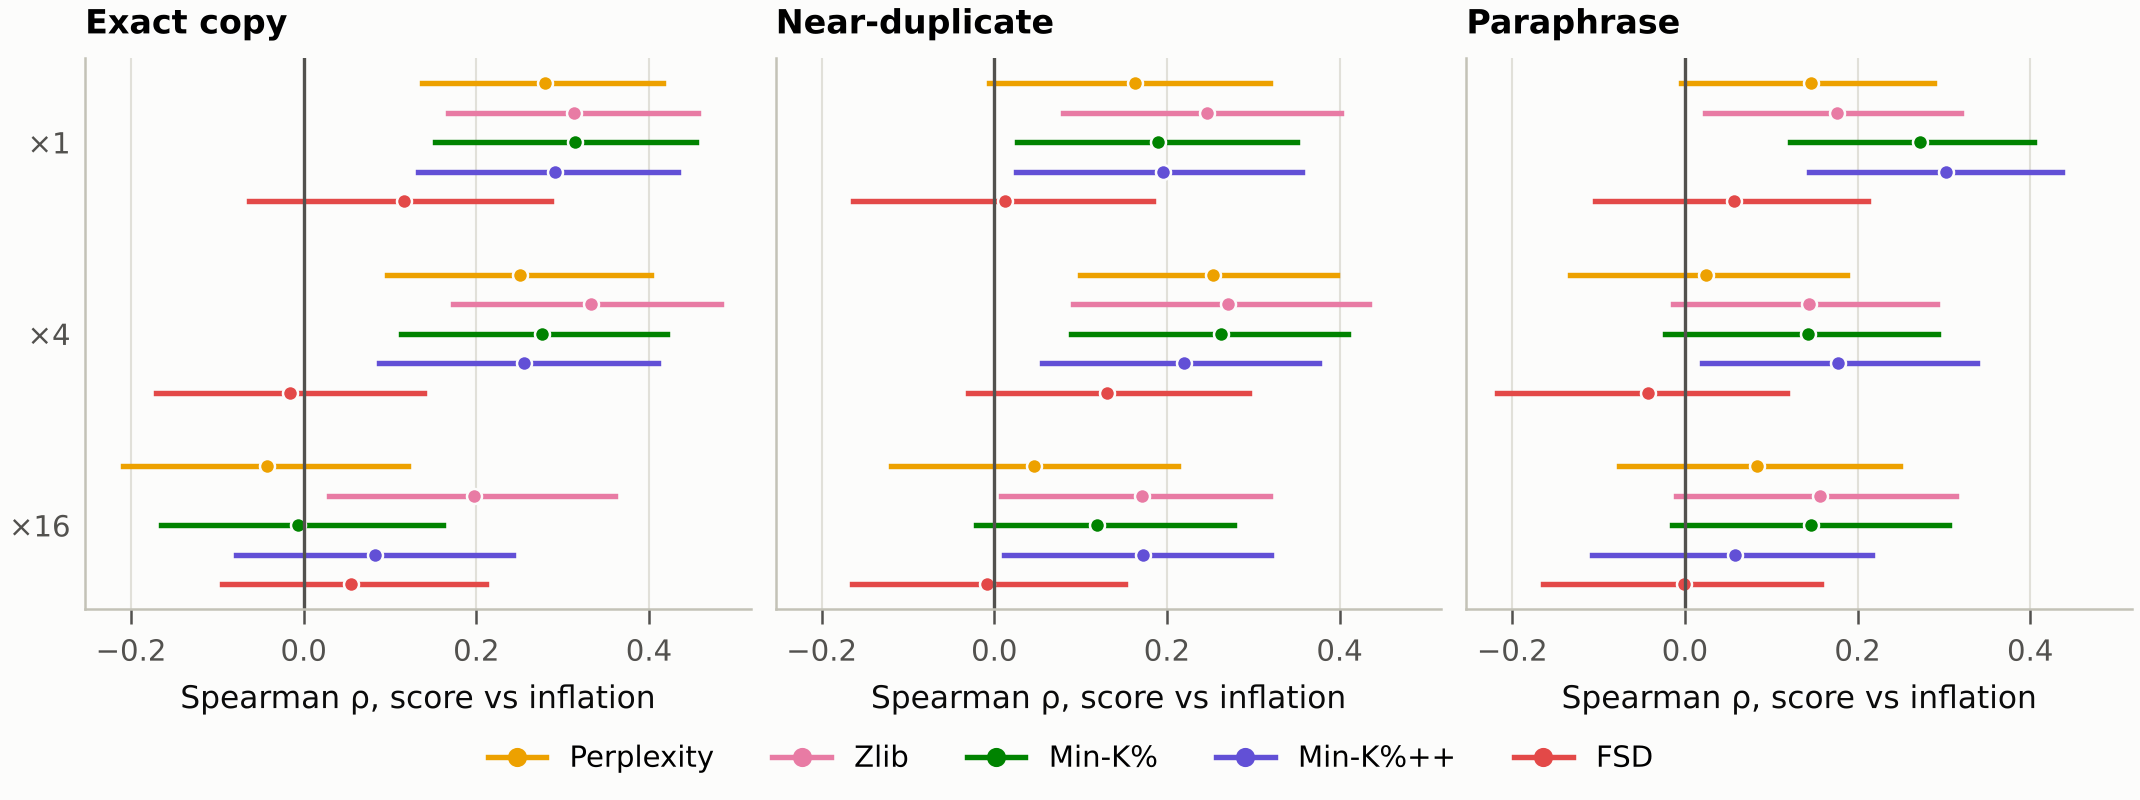
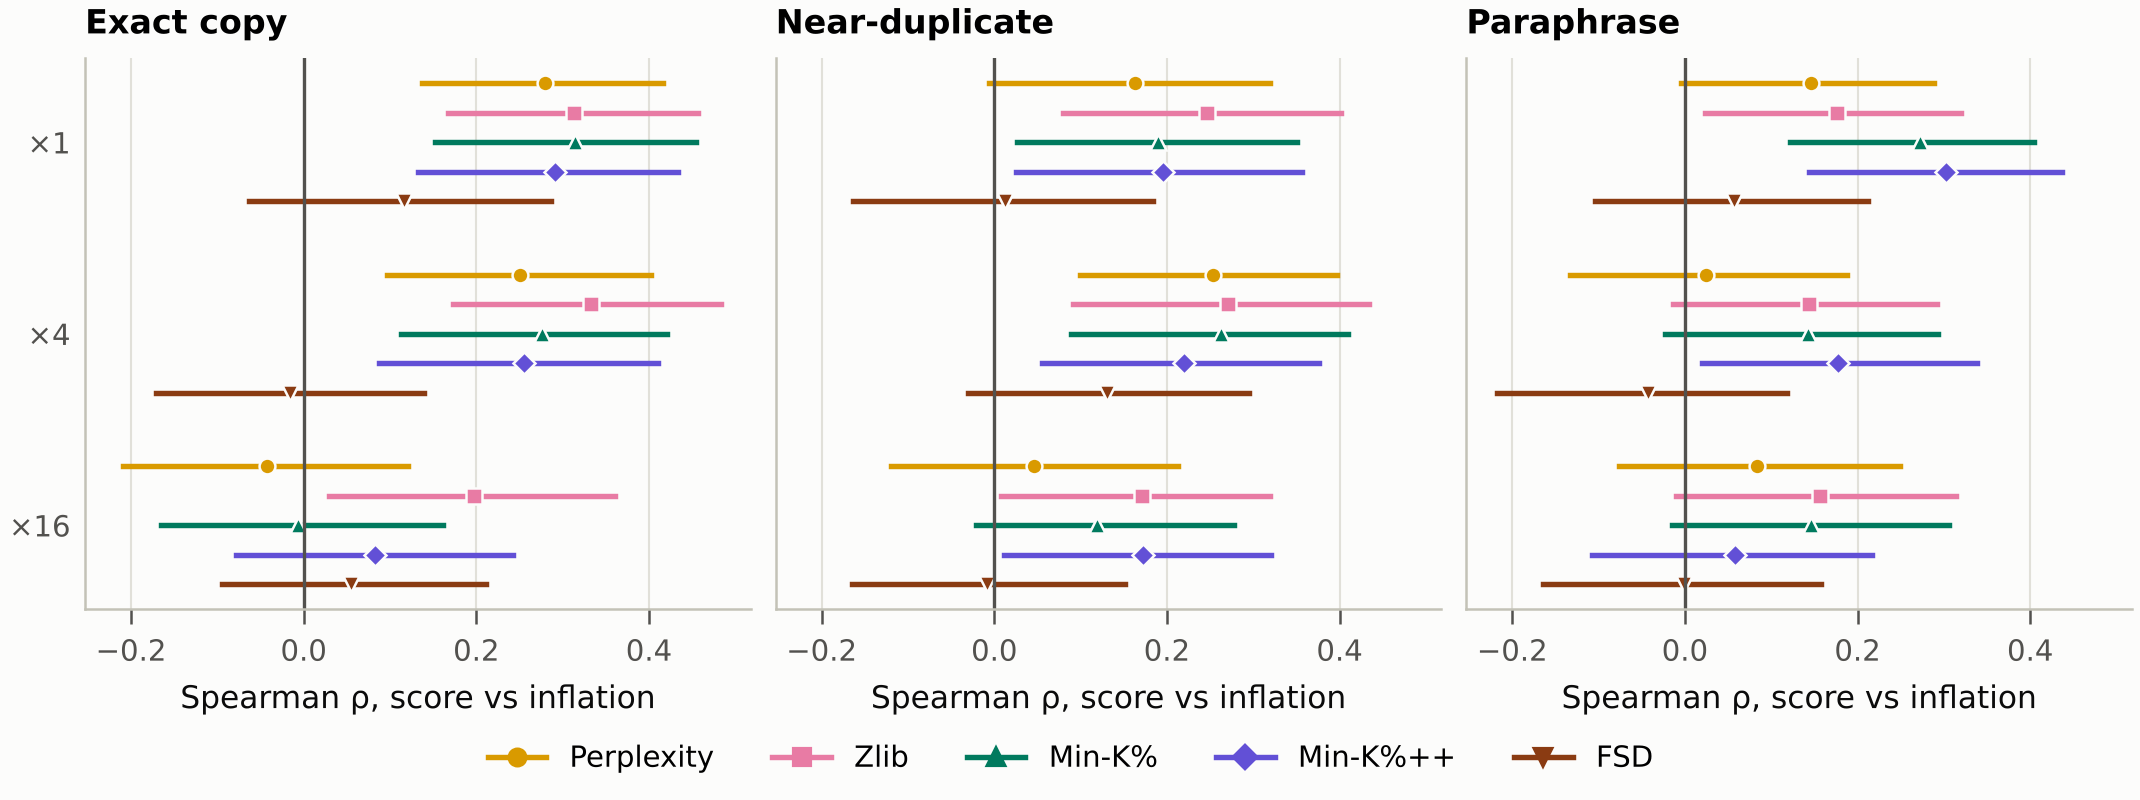
Figures: colour-blind-safe detector palette with redundant marker, line-style and hatch encoding

diff --git a/dcl/figures.py b/dcl/figures.py
@@ -28,7 +28,12 @@ CAT = ["#2a78d6", "#eb6834", "#1baf7a", "#eda100", "#e87ba4", "#008300", "#6250d
 OVERLAP_COL = dict(zip(C.OVERLAPS, CAT[:3]))
 OVERLAP_LAB = {"exact": "Exact copy", "near_dup": "Near-duplicate", "paraphrase": "Paraphrase"}
 OVERLAP_MARK = {"exact": "o", "near_dup": "s", "paraphrase": "^"}
-DET_COL = dict(zip(DETECTORS.values(), CAT[3:8]))
+# Detector palette validated for colour-vision deficiency (all pairs, light surface); every detector also
+# has its own marker and line style, so identity never depends on colour alone.
+DET_COL = dict(zip(DETECTORS.values(), ["#d99a00", "#e87ba4", "#007a5e", "#6250d6", "#8a3b12"]))
+DET_MARK = dict(zip(DETECTORS.values(), ["o", "s", "^", "D", "v"]))
+DET_LS = dict(zip(DETECTORS.values(), ["-", (0, (4, 1.5)), (0, (1, 1)), (0, (5, 1.5, 1, 1.5)), (0, (2, 1, 2, 3))]))
+OVERLAP_HATCH = {"exact": "", "near_dup": "////", "paraphrase": "...."}
 BLUES = LinearSegmentedColormap.from_list("blues", ["#cde2fb", "#86b6ef", "#3987e5", "#1c5cab", "#0d366b"])
 DIVERGE = LinearSegmentedColormap.from_list("div", ["#e34948", "#f0efec", "#2a78d6"])
 REF_GREY, CTX_GREY, LIGHT_GREY = "#a3a29b", "#d4d3cd", "#e9e8e4"
@@ -46,7 +51,7 @@ DOSE_TINT = {1: 0.62, 4: 0.32, 16: 0.0}
 
 plt.rcParams.update({
     "figure.facecolor": SURFACE, "axes.facecolor": SURFACE, "savefig.facecolor": SURFACE,
-    "font.family": "DejaVu Sans", "font.size": 7.5, "axes.titlesize": 8, "axes.titleweight": "bold",
+    "font.family": "DejaVu Sans", "hatch.linewidth": 0.6, "font.size": 7.5, "axes.titlesize": 8, "axes.titleweight": "bold",
     "axes.labelsize": 7.5, "xtick.labelsize": 7, "ytick.labelsize": 7, "legend.fontsize": 7,
     "axes.edgecolor": AXIS, "axes.labelcolor": INK, "xtick.color": INK2, "ytick.color": INK2,
     "axes.spines.top": False, "axes.spines.right": False, "axes.grid": True, "grid.color": GRID,
@@ -160,7 +165,7 @@ def fig_roc_curves(avg, out):
         y = np.r_[np.ones(len(d)), np.zeros(len(clean))]
         for col, lab in DETECTORS.items():
             f, t, _ = roc_curve(y, np.r_[d[col], clean[col]])
-            ax.plot(f, t, color=DET_COL[lab], lw=1.2, label=lab)
+            ax.plot(f, t, color=DET_COL[lab], ls=DET_LS[lab], lw=1.3, label=lab)
         ax.plot([0, 1], [0, 1], color=MUTED, lw=0.8, ls=(0, (3, 2)))
         ax.set_title(f"{OVERLAP_LAB[o]}, ×16", loc="left")
         ax.set_xlabel("False positive rate")
@@ -215,7 +220,7 @@ def fig_forest(agr, out):
                 r = w[(w["group"] == g) & (w["detector"] == dl)].iloc[0]
                 y = k * (len(dets) + 1.5) + j
                 ax.plot([r["rho_lo"], r["rho_hi"]], [y, y], color=DET_COL[dl], lw=1.3)
-                ax.plot(r["rho"], y, "o", color=DET_COL[dl], ms=3.6, mec=SURFACE, mew=0.6)
+                ax.plot(r["rho"], y, DET_MARK[dl], color=DET_COL[dl], ms=3.8, mec=SURFACE, mew=0.6)
         ax.axvline(0, color=INK2, lw=0.8)
         ax.set_yticks([k * (len(dets) + 1.5) + 2 for k in range(3)], [f"×{d}" for d in C.DOSES])
         ax.set_title(OVERLAP_LAB[o], loc="left")
@@ -223,7 +228,7 @@ def fig_forest(agr, out):
         ax.grid(axis="y", visible=False)
         ax.tick_params(axis="y", length=0)
         ax.invert_yaxis()
-    handles = [plt.Line2D([], [], color=DET_COL[d], marker="o", ms=3.6, lw=1.3, label=d) for d in dets]
+    handles = [plt.Line2D([], [], color=DET_COL[d], marker=DET_MARK[d], ms=3.8, lw=1.3, label=d) for d in dets]
     fig.legend(handles=handles, loc="outside lower center", ncol=5)
     return _save(fig, out, "fig06_within_cell_rho")
 
@@ -315,9 +320,10 @@ def fig_ablation(abl, out):
     x = np.arange(len(runs))
     w = 0.26
     for k, o in enumerate(C.OVERLAPS):
-        axes[0].bar(x + (k - 1) * w, a[f"infl_acc_pts_{o}"], w - 0.03, color=OVERLAP_COL[o], label=OVERLAP_LAB[o])
+        axes[0].bar(x + (k - 1) * w, a[f"infl_acc_pts_{o}"], w - 0.03, color=OVERLAP_COL[o], label=OVERLAP_LAB[o],
+                    hatch=OVERLAP_HATCH[o], edgecolor=SURFACE, linewidth=0)
         axes[1].bar(x + (k - 1) * w, a[f"auroc_Min-K%++_{o}_x16"] - 0.5, w - 0.03, bottom=0.5,
-                    color=OVERLAP_COL[o], label=OVERLAP_LAB[o])
+                    color=OVERLAP_COL[o], label=OVERLAP_LAB[o], hatch=OVERLAP_HATCH[o], edgecolor=SURFACE, linewidth=0)
     axes[0].set_ylabel("Inflation (accuracy points)")
     axes[0].set_title("Inflation, mean over doses", loc="left")
     axes[0].axhline(0, color=INK2, lw=0.8)
